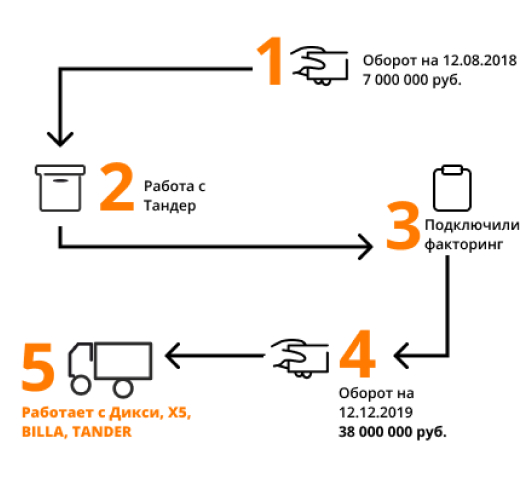
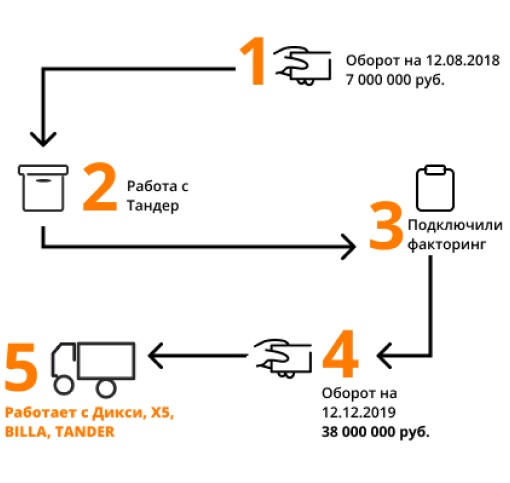
added adaptability to case pages

Changed region(s): [[0.0, 0.1242, 0.9706, 0.9317], [0.4412, 0.0621, 0.9706, 0.1863]]

diff --git a/src/pages/OneCasePage/OneCasePage.scss b/src/pages/OneCasePage/OneCasePage.scss
@@ -12,29 +12,13 @@
     }
     .main {
         display: grid;
-        grid-template-columns: auto 500px;
+        grid-template-columns: 1fr 1fr;
         column-gap: 58px;
         align-items: center;
         margin-bottom: 75px;
         .main__schemeImg {
             width: 100%;
         }
-        /* #fruitdelivery img {
-            position: relative;
-            left: -15px;
-        }
-        #seafooddelivery img {
-            position: relative;
-            left: -15px;
-        }
-        #softwaredevelopment img {
-            position: relative;
-            left: -51px;
-        }
-        #itoutsourcing img {
-            position: relative;
-            left: -3px;
-        } */
         .main__steps {
             > div {
                 margin-bottom: 30px;
@@ -72,8 +56,6 @@
         font-weight: 600;
         line-height: 27px;
         .advantages__firstContainer {
-            /* display: flex;
-            align-items: center; */
             background-image: url(../../assets/imgs/firstadvantage-back.jpg);
             background-position: bottom right;
             background-repeat: no-repeat;
@@ -84,8 +66,6 @@
             }
         }
         .advantages__secondContainer {
-            /* display: flex;
-            align-items: center; */
             background-image: url(../../assets/imgs/secondadvantage-back.jpg);
             background-position: bottom right;
             background-repeat: no-repeat;
@@ -93,6 +73,254 @@
             .advantages__secondContainerText {
                 max-width: 380px;
                 margin-top: 56px;
+            }
+        }
+    }
+}
+
+@media (min-width: $mobile) and (max-width: $tablet) {
+    .oneCasePage {
+        margin-top: 50px;
+        .oneCasePage__itemSubtitle {
+            font-size: 16px;
+            line-height: 22px;
+            margin-bottom: 0px;
+        }
+        .main {
+            display: grid;
+            grid-template-columns: 1fr;
+            grid-template-rows: auto auto;
+            column-gap: 0px;
+            margin-bottom: 25px;
+            .main__scheme {
+                justify-self: center;
+            }
+            .main__schemeImg {
+                width: auto;
+                height: 100%;
+            }
+            #fruitdelivery {
+                margin-top: 20px;
+                margin-bottom: 15px;
+                img {
+                    max-height: 469px;
+                    max-width: 100%;
+                }
+            }
+            #seafooddelivery {
+                margin-top: 0px;
+                margin-bottom: 40px;
+                img {
+                    max-height: 557px;
+                    max-width: 100%;
+                }
+            }
+            #softwaredevelopment {
+                margin-top: 20px;
+                margin-bottom: 20px;
+                img {
+                    max-height: 425px;
+                    max-width: 100%;
+                }
+            }
+            #itoutsourcing {
+                margin-top: 0px;
+                margin-bottom: 0px;
+                img {
+                    max-height: 558px;
+                    max-width: 100%;
+                }
+            }
+            .main__steps {
+                > div {
+                    margin-bottom: 20px;
+                }
+                :last-child {
+                    margin-bottom: 0px;
+                }
+                .main__stepsTitle {
+                    font-size: 24px;
+                    line-height: 33px;
+                    margin-bottom: 5px;
+                }
+                .main__stepsMainText {
+                    font-size: 20px;
+                    line-height: 27px;
+                }
+            }
+        }
+        .oneCasePage__itemAccentSubtitle {
+            font-size: 24px;
+            line-height: 33px;
+            margin-bottom: 44px;
+        }
+        .advantages {
+            display: grid;
+            grid-template-columns: 1fr 1fr;
+            grid-template-rows: auto;
+            column-gap: 56px;
+            margin-bottom: 44px;
+
+            font-size: 18px;
+            line-height: 25px;
+            .advantages__firstContainer {
+                min-height: 200px;
+                .advantages__firstContainerText {
+                    max-width: 320px;
+                    margin-top: 27px;
+                }
+            }
+            .advantages__secondContainer {
+                min-height: 200px;
+                .advantages__secondContainerText {
+                    max-width: 320px;
+                    margin-top: 27px;
+                }
+            }
+        }
+    }
+}
+
+@media (min-width: $mobile) and (max-width: 700px) {
+    .oneCasePage {
+        .oneCasePage__itemAccentSubtitle {
+            text-align: center;
+        }
+        .advantages {
+            grid-template-columns: 1fr !important;
+            grid-template-rows: auto !important;
+            column-gap: 0px !important;
+            row-gap: 46px !important;
+            justify-items: center !important;
+            .advantages__firstContainer {
+                background-position: bottom center !important;
+                .advantages__firstContainerText {
+                    text-align: center;
+                }
+            }
+            .advantages__secondContainer {
+                background-position: bottom center !important;
+                .advantages__secondContainerText {
+                    text-align: center;
+                }
+            }
+        }
+    }
+}
+
+@media (max-width: $mobile) {
+    .oneCasePage {
+        margin-top: 30px;
+        .oneCasePage__itemSubtitle {
+            font-size: 12px;
+            line-height: 16px;
+            margin-bottom: 0px;
+        }
+        .main {
+            display: grid;
+            grid-template-columns: 1fr;
+            grid-template-rows: auto auto;
+            column-gap: 0px;
+            margin-bottom: 25px;
+            .main__scheme {
+                justify-self: center;
+            }
+            .main__schemeImg {
+                width: auto;
+                height: 100%;
+            }
+            #fruitdelivery {
+                margin-top: 5px;
+                margin-bottom: 0px;
+                img {
+                    max-height: 214px;
+                    max-width: 100%;
+                }
+            }
+            #seafooddelivery {
+                margin-top: 6px;
+                margin-bottom: 6px;
+                img {
+                    max-height: 305px;
+                    max-width: 100%;
+                }
+            }
+            #softwaredevelopment {
+                margin-top: 8px;
+                margin-bottom: 0px;
+                img {
+                    max-height: 211px;
+                    max-width: 100%;
+                }
+            }
+            #itoutsourcing {
+                margin-top: 10px;
+                margin-bottom: 15px;
+                img {
+                    max-height: 292px;
+                    max-width: 100%;
+                }
+            }
+            .main__steps {
+                > div {
+                    margin-bottom: 15px;
+                }
+                :last-child {
+                    margin-bottom: 0px;
+                }
+                .main__stepsTitle {
+                    font-size: 14px;
+                    line-height: 19px;
+                    margin-bottom: 0px;
+                }
+                .main__stepsMainText {
+                    font-size: 10px;
+                    line-height: 14px;
+                }
+            }
+        }
+        .oneCasePage__itemAccentSubtitle {
+            font-size: 14px;
+            line-height: 19px;
+            margin-bottom: 17px;
+            text-align: center;
+        }
+        .advantages {
+            display: grid;
+            grid-template-columns: 1fr;
+            grid-template-rows: auto auto;
+            column-gap: 0px;
+            row-gap: 46px;
+            margin-bottom: 16px;
+            justify-items: center;
+
+            font-size: 10px;
+            line-height: 14px;
+            .advantages__firstContainer {
+                background-position: bottom center;
+                min-height: 100px;
+                .advantages__firstContainerText {
+                    max-width: 253px;
+                    margin-top: 8px;
+                    text-align: center;
+                }
+                .advantages__containerText {
+                    max-width: 200px !important;
+                    margin-top: 20px !important;
+                }
+            }
+            .advantages__secondContainer {
+                min-height: 100px;
+                background-position: bottom center;
+                .advantages__secondContainerText {
+                    max-width: 241px;
+                    margin-top: 11px;
+                    text-align: center;
+                }
+                .advantages__containerText {
+                    max-width: 200px !important;
+                    margin-top: 19px !important;
+                }
             }
         }
     }

diff --git a/src/pages/OneCasePage/OneCasePage.jsx b/src/pages/OneCasePage/OneCasePage.jsx
@@ -1,14 +1,49 @@
 import './OneCasePage.scss';
+import * as cx from "classnames";
 import { cases } from './cases';
 import BannerFactoring from '../../components/BannerFactoring/BannerFactoring';
+import useWindowDimensions from '../../hooks/useWindowDimensions';
 
 import fruitdelivery from '../../assets/imgs/fruit-delivery.jpg';
 import seafooddelivery from '../../assets/imgs/seafood-delivery.jpg';
 import softwaredevelopment from '../../assets/imgs/software-development.jpg';
 import itoutsourcing from '../../assets/imgs/it-outsourcing.jpg';
 
+import fruitdeliveryTablet from '../../assets/imgs/fruit-delivery-tablet.jpg';
+import seafooddeliveryTablet from '../../assets/imgs/seafood-delivery-tablet.jpg';
+import softwaredevelopmentTablet from '../../assets/imgs/software-development-tablet.jpg';
+import itoutsourcingTablet from '../../assets/imgs/it-outsourcing-tablet.jpg';
+
+import fruitdeliveryMobile from '../../assets/imgs/fruit-delivery-mobile.jpg';
+import seafooddeliveryMobile from '../../assets/imgs/seafood-delivery-mobile.jpg';
+import softwaredevelopmentMobile from '../../assets/imgs/software-development-mobile.jpg';
+import itoutsourcingMobile from '../../assets/imgs/it-outsourcing-mobile.jpg';
+
 function OneCasePage(props) {
   const currentCase = cases.find((item) => (item.id === props.case));
+  const { width } = useWindowDimensions();
+
+  const renderImg = () => {
+    if ((width >= 959)) {
+      return <img className="main__schemeImg" alt="Схема"
+        src={currentCase.id === "fruitdelivery" ? fruitdelivery
+          : currentCase.id === "seafooddelivery" ? seafooddelivery
+            : currentCase.id === "softwaredevelopment" ? softwaredevelopment
+              : itoutsourcing} />;
+    } else if ((width < 959) && (width > 480)) {
+      return <img className="main__schemeImg" alt="Схема"
+        src={currentCase.id === "fruitdelivery" ? fruitdeliveryTablet
+          : currentCase.id === "seafooddelivery" ? seafooddeliveryTablet
+            : currentCase.id === "softwaredevelopment" ? softwaredevelopmentTablet
+              : itoutsourcingTablet} />;
+    } else {
+      return <img className="main__schemeImg" alt="Схема"
+        src={currentCase.id === "fruitdelivery" ? fruitdeliveryMobile
+          : currentCase.id === "seafooddelivery" ? seafooddeliveryMobile
+            : currentCase.id === "softwaredevelopment" ? softwaredevelopmentMobile
+              : itoutsourcingMobile} />;
+    }
+  }
 
   return (
     <div className="oneCasePage">
@@ -20,11 +55,7 @@ function OneCasePage(props) {
               <div className="oneCasePage__itemSubtitle">{currentCase.subtitle}</div>
               <div className="main">
                 <div className="main__scheme" id={currentCase.id}>
-                  <img className="main__schemeImg" alt="Схема"
-                    src={currentCase.id === "fruitdelivery" ? fruitdelivery
-                      : currentCase.id === "seafooddelivery" ? seafooddelivery
-                        : currentCase.id === "softwaredevelopment" ? softwaredevelopment
-                          : itoutsourcing} />
+                  {renderImg()}
                 </div>
                 <div className="main__steps">
                   <div>
@@ -44,10 +75,14 @@ function OneCasePage(props) {
               <div className="oneCasePage__itemAccentSubtitle">Преимущества факторинга</div>
               <div className="advantages">
                 <div className="advantages__firstContainer">
-                  <div className="advantages__firstContainerText">{currentCase.firstadvantage}</div>
+                  <div className={cx("advantages__firstContainerText", (currentCase.id === "softwaredevelopment" || currentCase.id === "itoutsourcing") && "advantages__containerText")}>
+                    {currentCase.firstadvantage}
+                  </div>
                 </div>
                 <div className="advantages__secondContainer">
-                  <div className="advantages__secondContainerText">{currentCase.secondadvantage}</div>
+                  <div className={cx("advantages__secondContainerText", (currentCase.id === "softwaredevelopment" || currentCase.id === "itoutsourcing") && "advantages__containerText")}>
+                    {currentCase.secondadvantage}
+                  </div>
                 </div>
               </div>
             </div>
